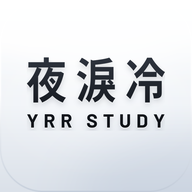
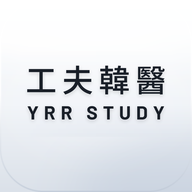
로고를 工夫韓醫 YRR STUDY로 교체 (세로, 가로, 흰색, 앱 아이콘)
Claude-Session: https://claude.ai/code/session_015uaKLahaYjwSoCrRpGm8MR

Changed region(s): [[0.125, 0.2812, 0.875, 0.6875]]

diff --git a/js/views/auth.js b/js/views/auth.js
@@ -30,7 +30,7 @@ export function loginView() {
   const btn = h('button', { class: 'btn', type: 'submit' }, '로그인');
 
   const card = h('form', { class: 'auth-card', novalidate: true, onsubmit: submit },
-    h('img', { class: 'brand', src: 'icons/logo.png', alt: '夜淚冷 YRR STUDY' }),
+    h('img', { class: 'brand', src: 'icons/logo.png', alt: '工夫韓醫 YRR STUDY' }),
     email,
     pw,
     err,
@@ -83,7 +83,7 @@ export function firstView() {
   showGrade();
 
   const card = h('form', { class: 'auth-card', novalidate: true, onsubmit: submit },
-    h('img', { class: 'brand sm', src: 'icons/logo.png', alt: '夜淚冷 YRR STUDY' }),
+    h('img', { class: 'brand sm', src: 'icons/logo.png', alt: '工夫韓醫 YRR STUDY' }),
     h('h1', { class: 'auth-title' }, '비밀번호 변경'),
     pw1,
     pw2,

diff --git a/index.html b/index.html
@@ -20,9 +20,9 @@
   window.__inapp = true;
 })();
 </script>
-<link rel="manifest" href="manifest.webmanifest?v=3">
-<link rel="apple-touch-icon" href="icons/apple-touch-icon.png?v=3">
-<link rel="icon" type="image/png" href="icons/favicon.png?v=3">
+<link rel="manifest" href="manifest.webmanifest?v=4">
+<link rel="apple-touch-icon" href="icons/apple-touch-icon.png?v=4">
+<link rel="icon" type="image/png" href="icons/favicon.png?v=4">
 <link rel="preconnect" href="https://cdn.jsdelivr.net">
 <link rel="stylesheet" href="https://cdn.jsdelivr.net/gh/orioncactus/pretendard@v1.3.9/dist/web/variable/pretendardvariable-dynamic-subset.min.css">
 <link rel="stylesheet" href="css/app.css">

diff --git a/js/views/home.js b/js/views/home.js
@@ -70,7 +70,7 @@ export function homeView(q) {
   });
 
   const logo = h('button', { class: 'logo-btn', 'aria-label': '홈', onclick: () => go('#/home') },
-    h('img', { class: 'logo-h', src: 'icons/logo-h.png', alt: '夜淚冷 YRR STUDY' }));
+    h('img', { class: 'logo-h', src: 'icons/logo-h.png', alt: '工夫韓醫 YRR STUDY' }));
   const root = shell({ title: logo, active: 'home', body, right, tone: 'gray', fit: 'home-fit' });
   const prev = root.cleanup;
   root.cleanup = () => { prev?.(); stack.cleanup?.(); bell.cleanup?.(); };

diff --git a/js/views/admin.js b/js/views/admin.js
@@ -70,7 +70,7 @@ export function adminView(q) {
   show(tab);
 
   const logo = h('button', { class: 'logo-btn', 'aria-label': '홈', onclick: () => go('#/home') },
-    h('img', { class: 'logo-h', src: 'icons/logo-h.png', alt: '夜淚冷 YRR STUDY' }));
+    h('img', { class: 'logo-h', src: 'icons/logo-h.png', alt: '工夫韓醫 YRR STUDY' }));
   return shell({
     title: logo, active: 'admin',
     body: h('div', {}, h('div', { class: 'page-head adm-head' }, h('h1', {}, '관리'), tabs), area),

diff --git a/js/views/welcome.js b/js/views/welcome.js
@@ -21,7 +21,7 @@ export function welcomeView() {
   });
 
   return h('div', { class: 'welcome' },
-    h('img', { class: 'brand', src: 'icons/logo.png', alt: '夜淚冷 YRR STUDY' }),
+    h('img', { class: 'brand', src: 'icons/logo.png', alt: '工夫韓醫 YRR STUDY' }),
     h('h1', { class: 'st' }, `${S.profile.name || ''}님 안녕하세요 `, h('span', { class: 'wave' }, '👋')),
     h('div', { class: 'meta st' }, `${gradeLabel(S.grade, S.sem)} · ${today}`),
     actions,
